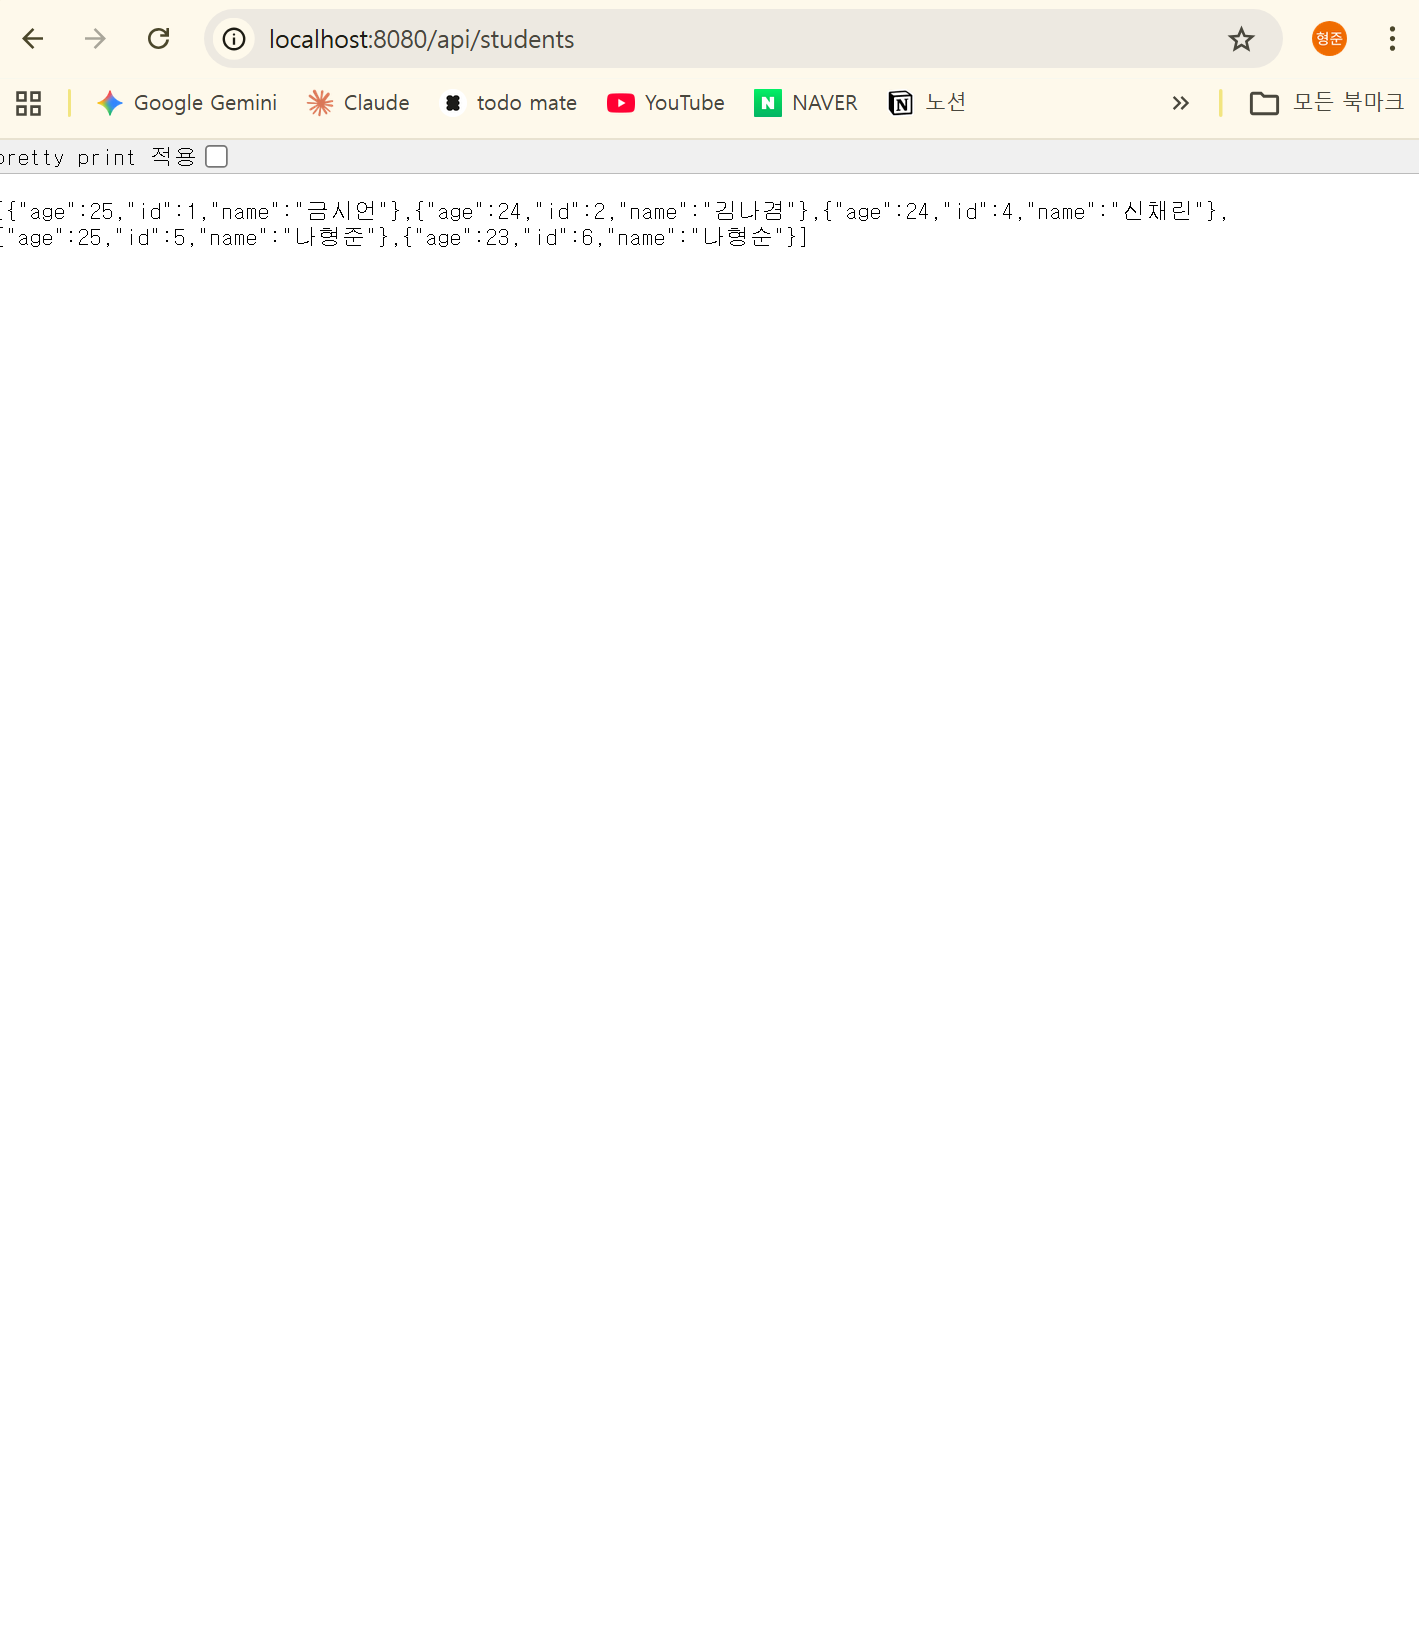
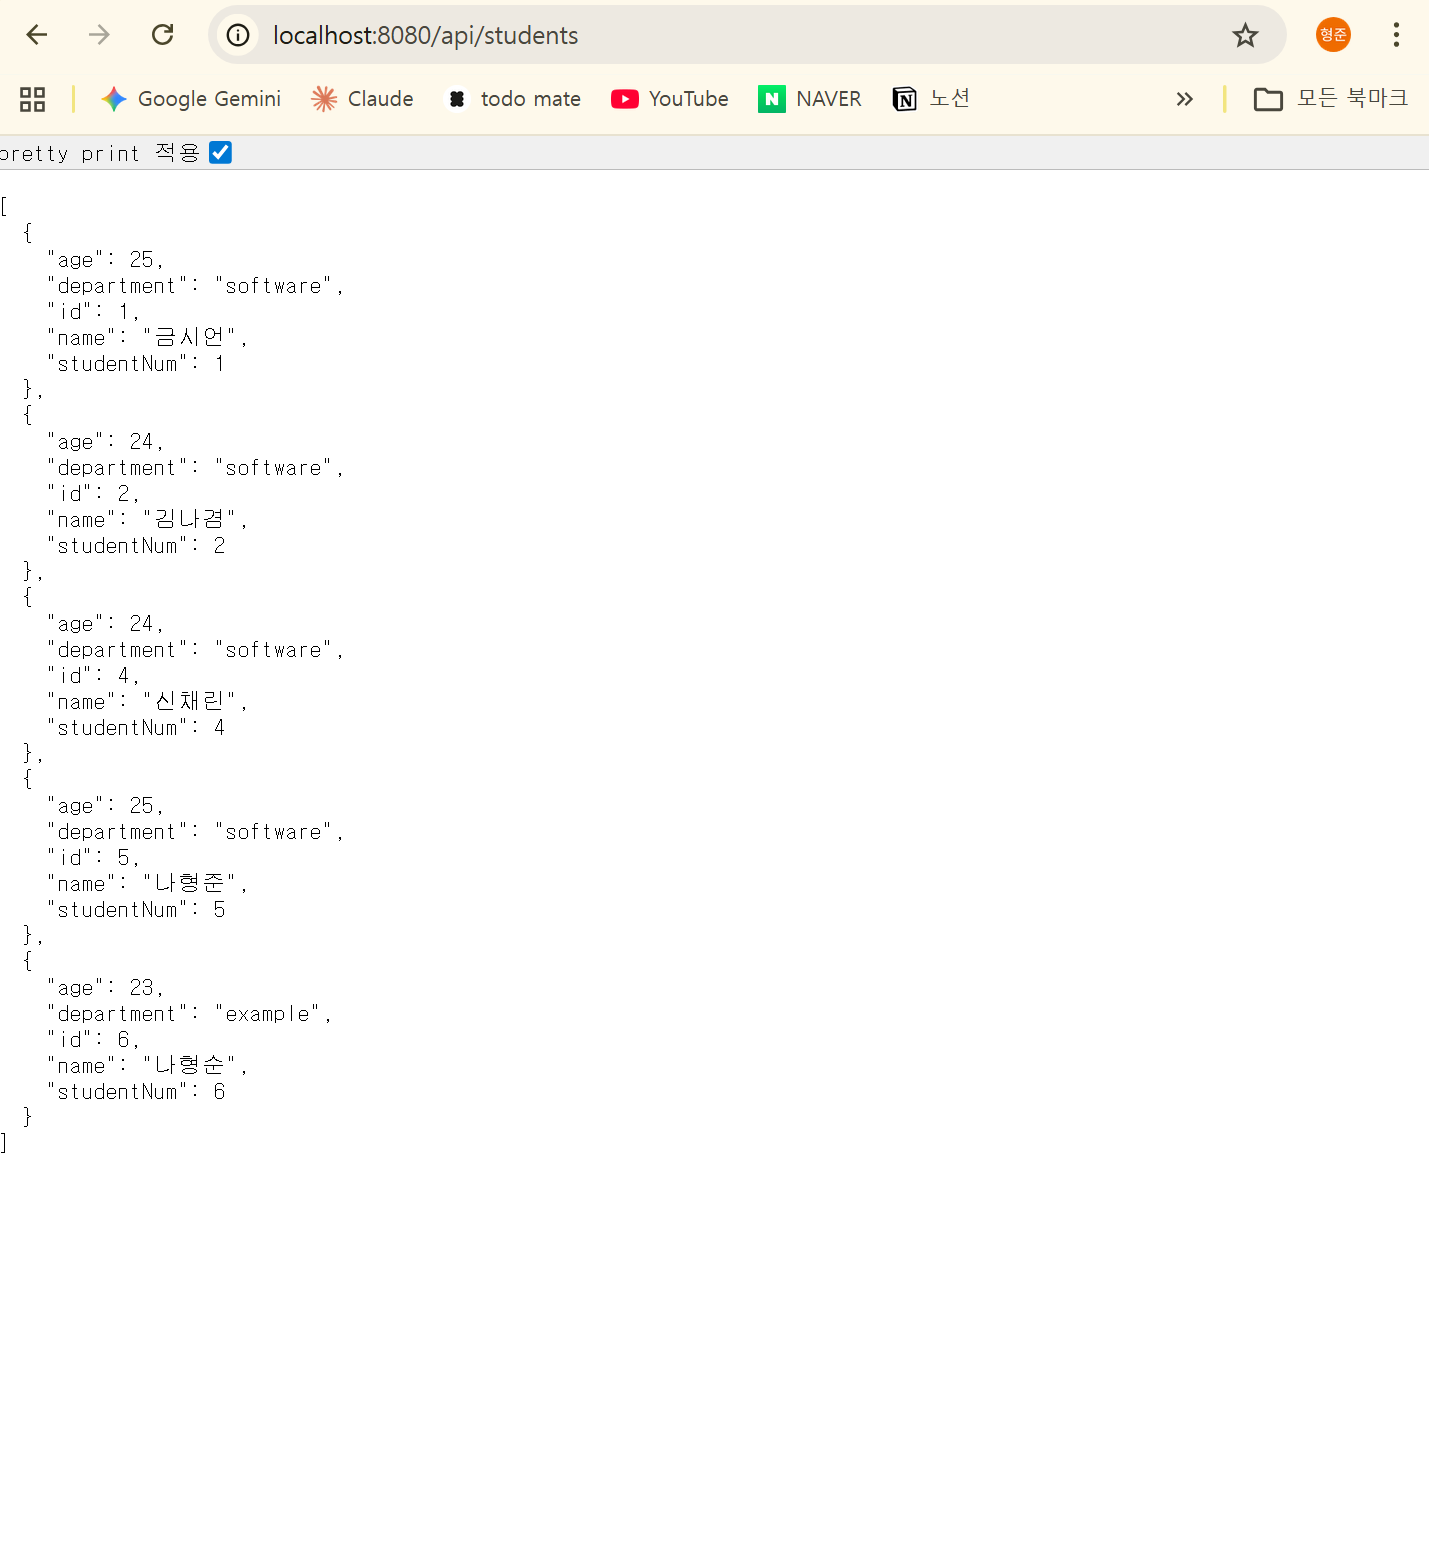
:recycle: Refactor: 2주차 2번 과제 수정

diff --git a/src/main/java/com/example/likelionbe/domain/student/entity/Student.java b/src/main/java/com/example/likelionbe/domain/student/entity/Student.java
@@ -14,7 +14,7 @@ public class Student {
     @Column(length = 20)
     private String department;
 
-    private Integer student_num;
+    private Integer studentNum;
 
     public Long getId() {
         return id;
@@ -26,5 +26,13 @@ public class Student {
 
     public Integer getAge() {
         return age;
+    }
+
+    public String getDepartment() {
+        return department;
+    }
+
+    public Integer getStudentNum() {
+        return studentNum;
     }
 }
